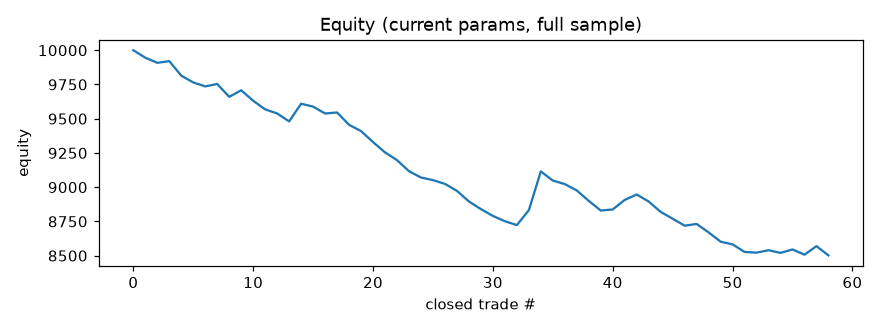
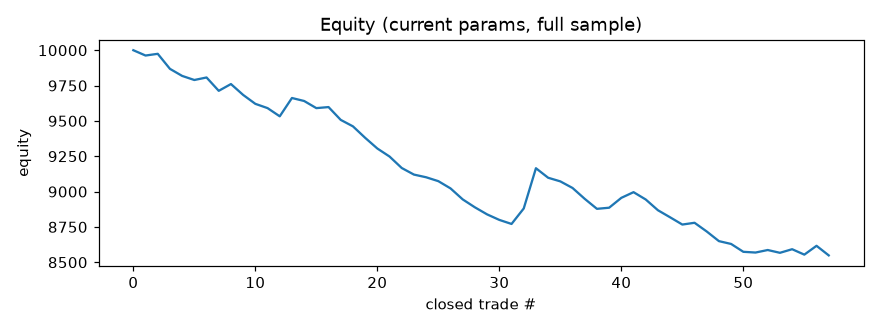
chore(finetune): cycle 2026-08-17T20:07Z

diff --git a/results/ETHUSDT/REPORT.md b/results/ETHUSDT/REPORT.md
@@ -1,6 +1,6 @@
 # Finetune report -- ETHUSDT 15m
 
-_Last run (UTC): 2026-08-17 16:06_
+_Last run (UTC): 2026-08-17 20:07_
 
 ## Current params (live)
 
@@ -24,8 +24,8 @@ _Last run (UTC): 2026-08-17 16:06_
 
 ## Latest cycle
 
-- Current-params net profit (full sample): **-20.23%**, PF 0.339, 100 trades, max DD -2023.34
-- Optimizer out-of-sample: net **-4.26%**, PF 0.352, 25 trades
+- Current-params net profit (full sample): **-20.23%**, PF 0.339, 100 trades, max DD -2023.28
+- Optimizer out-of-sample: net **-4.22%**, PF 0.354, 25 trades
 - Decision: **kept current params**
 
 ![equity curve](equity_curve.png)
@@ -34,7 +34,6 @@ _Last run (UTC): 2026-08-17 16:06_
 
 | time (UTC) | data bars | live net% | live PF | OOS net% | OOS PF | accepted |
 |---|---|---|---|---|---|---|
-| 2026-08-16 04:14 | 5000 | -22.11 | 0.313 | -6.2 | 0.233 | False |
 | 2026-08-16 08:07 | 5000 | -22.13 | 0.312 | -6.2 | 0.233 | False |
 | 2026-08-16 12:06 | 5000 | -21.51 | 0.32 | -6.53 | 0.223 | False |
 | 2026-08-16 16:05 | 5000 | -21.04 | 0.326 | -6.64 | 0.22 | False |
@@ -44,3 +43,4 @@ _Last run (UTC): 2026-08-17 16:06_
 | 2026-08-17 08:15 | 5000 | -20.88 | 0.33 | -6.26 | 0.232 | False |
 | 2026-08-17 12:08 | 5000 | -20.2 | 0.339 | -4.25 | 0.352 | False |
 | 2026-08-17 16:06 | 5000 | -20.23 | 0.339 | -4.26 | 0.352 | False |
+| 2026-08-17 20:07 | 5000 | -20.23 | 0.339 | -4.22 | 0.354 | False |

diff --git a/results/BTCUSDT/REPORT.md b/results/BTCUSDT/REPORT.md
@@ -1,6 +1,6 @@
 # Finetune report -- BTCUSDT 15m
 
-_Last run (UTC): 2026-08-17 16:06_
+_Last run (UTC): 2026-08-17 20:07_
 
 ## Current params (live)
 
@@ -25,7 +25,7 @@ _Last run (UTC): 2026-08-17 16:06_
 ## Latest cycle
 
 - Current-params net profit (full sample): **-11.27%**, PF 0.41, 69 trades, max DD -1280.53
-- Optimizer out-of-sample: net **-2.02%**, PF 0.406, 20 trades
+- Optimizer out-of-sample: net **-1.62%**, PF 0.462, 19 trades
 - Decision: **kept current params**
 
 ![equity curve](equity_curve.png)
@@ -34,7 +34,6 @@ _Last run (UTC): 2026-08-17 16:06_
 
 | time (UTC) | data bars | live net% | live PF | OOS net% | OOS PF | accepted |
 |---|---|---|---|---|---|---|
-| 2026-08-16 04:14 | 5000 | -13.08 | 0.366 | -1.68 | 0.482 | False |
 | 2026-08-16 08:07 | 5000 | -13.04 | 0.367 | -1.68 | 0.482 | False |
 | 2026-08-16 12:06 | 5000 | -12.08 | 0.387 | -1.91 | 0.45 | False |
 | 2026-08-16 16:05 | 5000 | -12.04 | 0.389 | -1.72 | 0.482 | False |
@@ -44,3 +43,4 @@ _Last run (UTC): 2026-08-17 16:06_
 | 2026-08-17 08:15 | 5000 | -11.2 | 0.411 | -2.24 | 0.38 | False |
 | 2026-08-17 12:08 | 5000 | -11.23 | 0.41 | -2.33 | 0.366 | False |
 | 2026-08-17 16:06 | 5000 | -11.27 | 0.41 | -2.02 | 0.406 | False |
+| 2026-08-17 20:07 | 5000 | -11.27 | 0.41 | -1.62 | 0.462 | False |

diff --git a/results/ETCUSDT/REPORT.md b/results/ETCUSDT/REPORT.md
@@ -1,6 +1,6 @@
 # Finetune report -- ETCUSDT 15m
 
-_Last run (UTC): 2026-08-17 16:06_
+_Last run (UTC): 2026-08-17 20:07_
 
 ## Current params (live)
 
@@ -24,7 +24,7 @@ _Last run (UTC): 2026-08-17 16:06_
 
 ## Latest cycle
 
-- Current-params net profit (full sample): **-14.98%**, PF 0.359, 58 trades, max DD -1498.06
+- Current-params net profit (full sample): **-14.51%**, PF 0.368, 57 trades, max DD -1451.36
 - Optimizer out-of-sample: net **-4.0%**, PF 0.249, 14 trades
 - Decision: **kept current params**
 
@@ -34,7 +34,6 @@ _Last run (UTC): 2026-08-17 16:06_
 
 | time (UTC) | data bars | live net% | live PF | OOS net% | OOS PF | accepted |
 |---|---|---|---|---|---|---|
-| 2026-08-16 04:14 | 5000 | -16.11 | 0.322 | -3.5 | 0.289 | False |
 | 2026-08-16 08:08 | 5000 | -16.11 | 0.322 | -3.48 | 0.29 | False |
 | 2026-08-16 12:07 | 5000 | -15.12 | 0.339 | -1.68 | 0.618 | False |
 | 2026-08-16 16:05 | 5000 | -15.03 | 0.341 | -2.07 | 0.561 | False |
@@ -44,3 +43,4 @@ _Last run (UTC): 2026-08-17 16:06_
 | 2026-08-17 08:15 | 5000 | -15.26 | 0.356 | -5.47 | 0.193 | False |
 | 2026-08-17 12:08 | 5000 | -14.45 | 0.371 | -4.0 | 0.249 | False |
 | 2026-08-17 16:06 | 5000 | -14.98 | 0.359 | -4.0 | 0.249 | False |
+| 2026-08-17 20:07 | 5000 | -14.51 | 0.368 | -4.0 | 0.249 | False |

diff --git a/results/REPORT.md b/results/REPORT.md
@@ -1,9 +1,9 @@
 # Finetune index -- 15m
 
-_Last run (UTC): 2026-08-17 16:06_
+_Last run (UTC): 2026-08-17 20:07_
 
 | symbol | bars | live net% | live PF | OOS net% | OOS PF | trades | accepted | report |
 |---|---|---|---|---|---|---|---|---|
-| BTCUSDT | 5000 | -11.27 | 0.41 | -2.02 | 0.406 | 20 | False | [BTCUSDT](BTCUSDT/REPORT.md) |
-| ETHUSDT | 5000 | -20.23 | 0.339 | -4.26 | 0.352 | 25 | False | [ETHUSDT](ETHUSDT/REPORT.md) |
-| ETCUSDT | 5000 | -14.98 | 0.359 | -4.0 | 0.249 | 14 | False | [ETCUSDT](ETCUSDT/REPORT.md) |
+| BTCUSDT | 5000 | -11.27 | 0.41 | -1.62 | 0.462 | 19 | False | [BTCUSDT](BTCUSDT/REPORT.md) |
+| ETHUSDT | 5000 | -20.23 | 0.339 | -4.22 | 0.354 | 25 | False | [ETHUSDT](ETHUSDT/REPORT.md) |
+| ETCUSDT | 5000 | -14.51 | 0.368 | -4.0 | 0.249 | 14 | False | [ETCUSDT](ETCUSDT/REPORT.md) |
